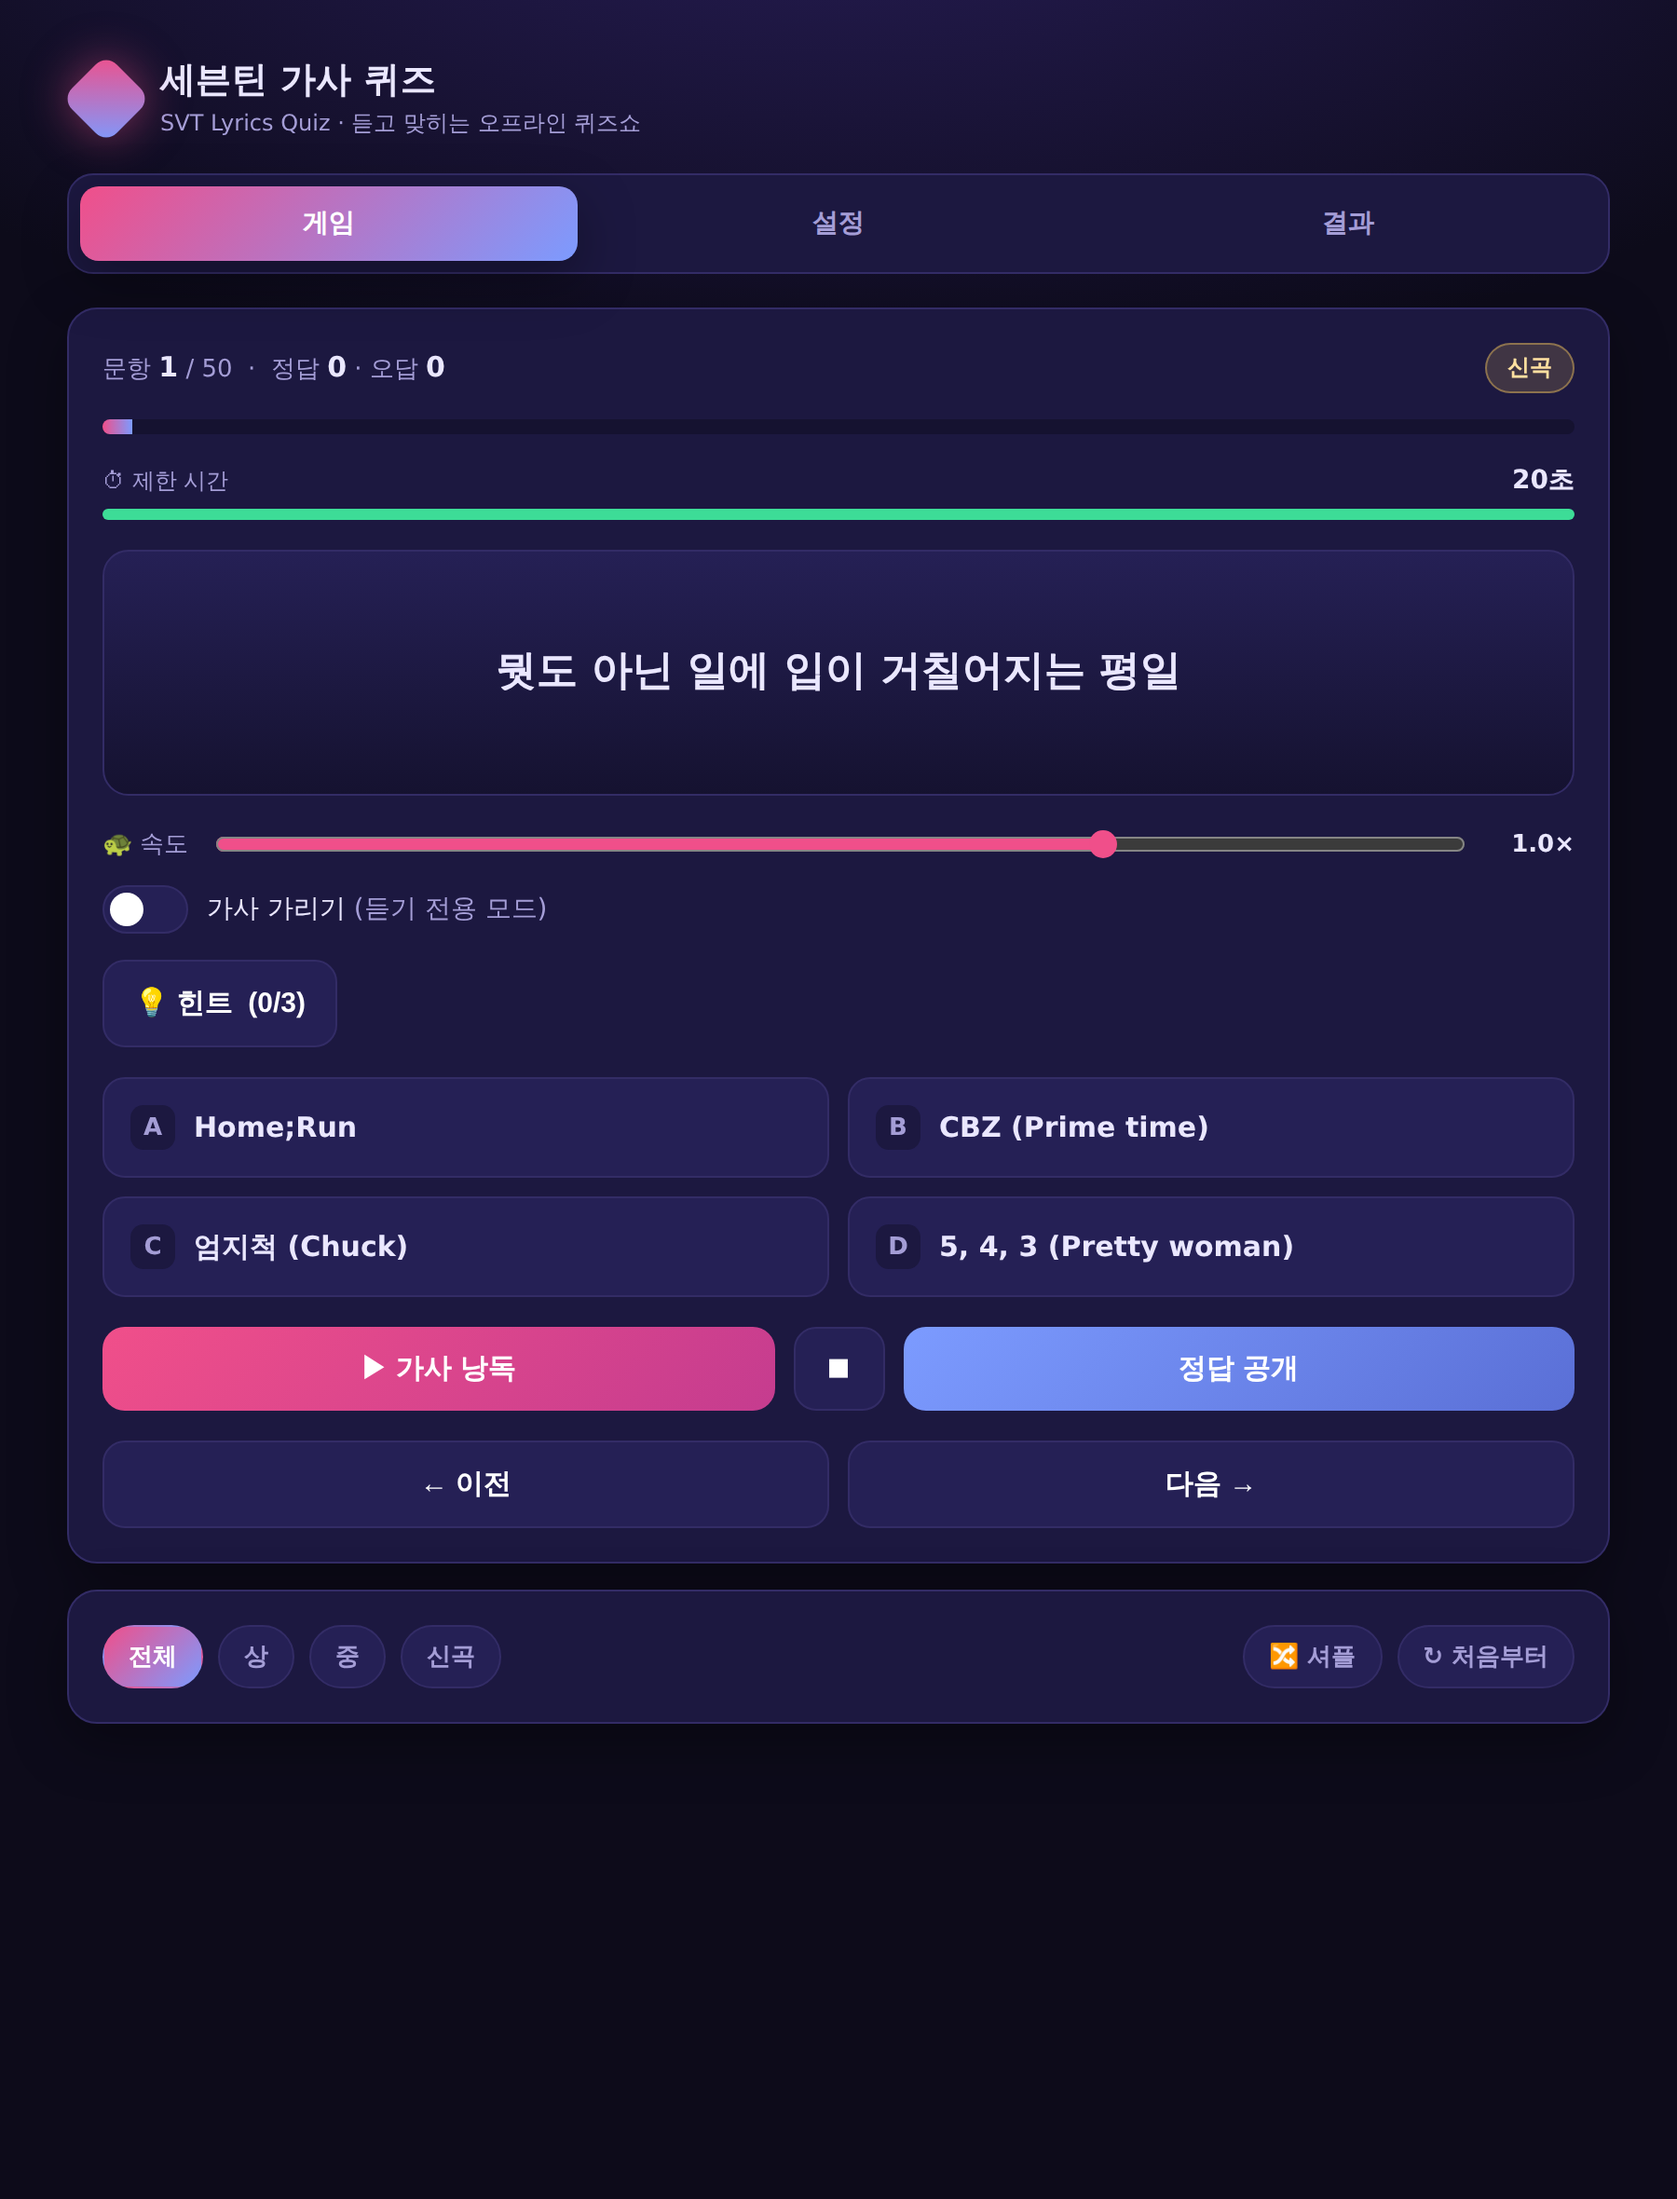
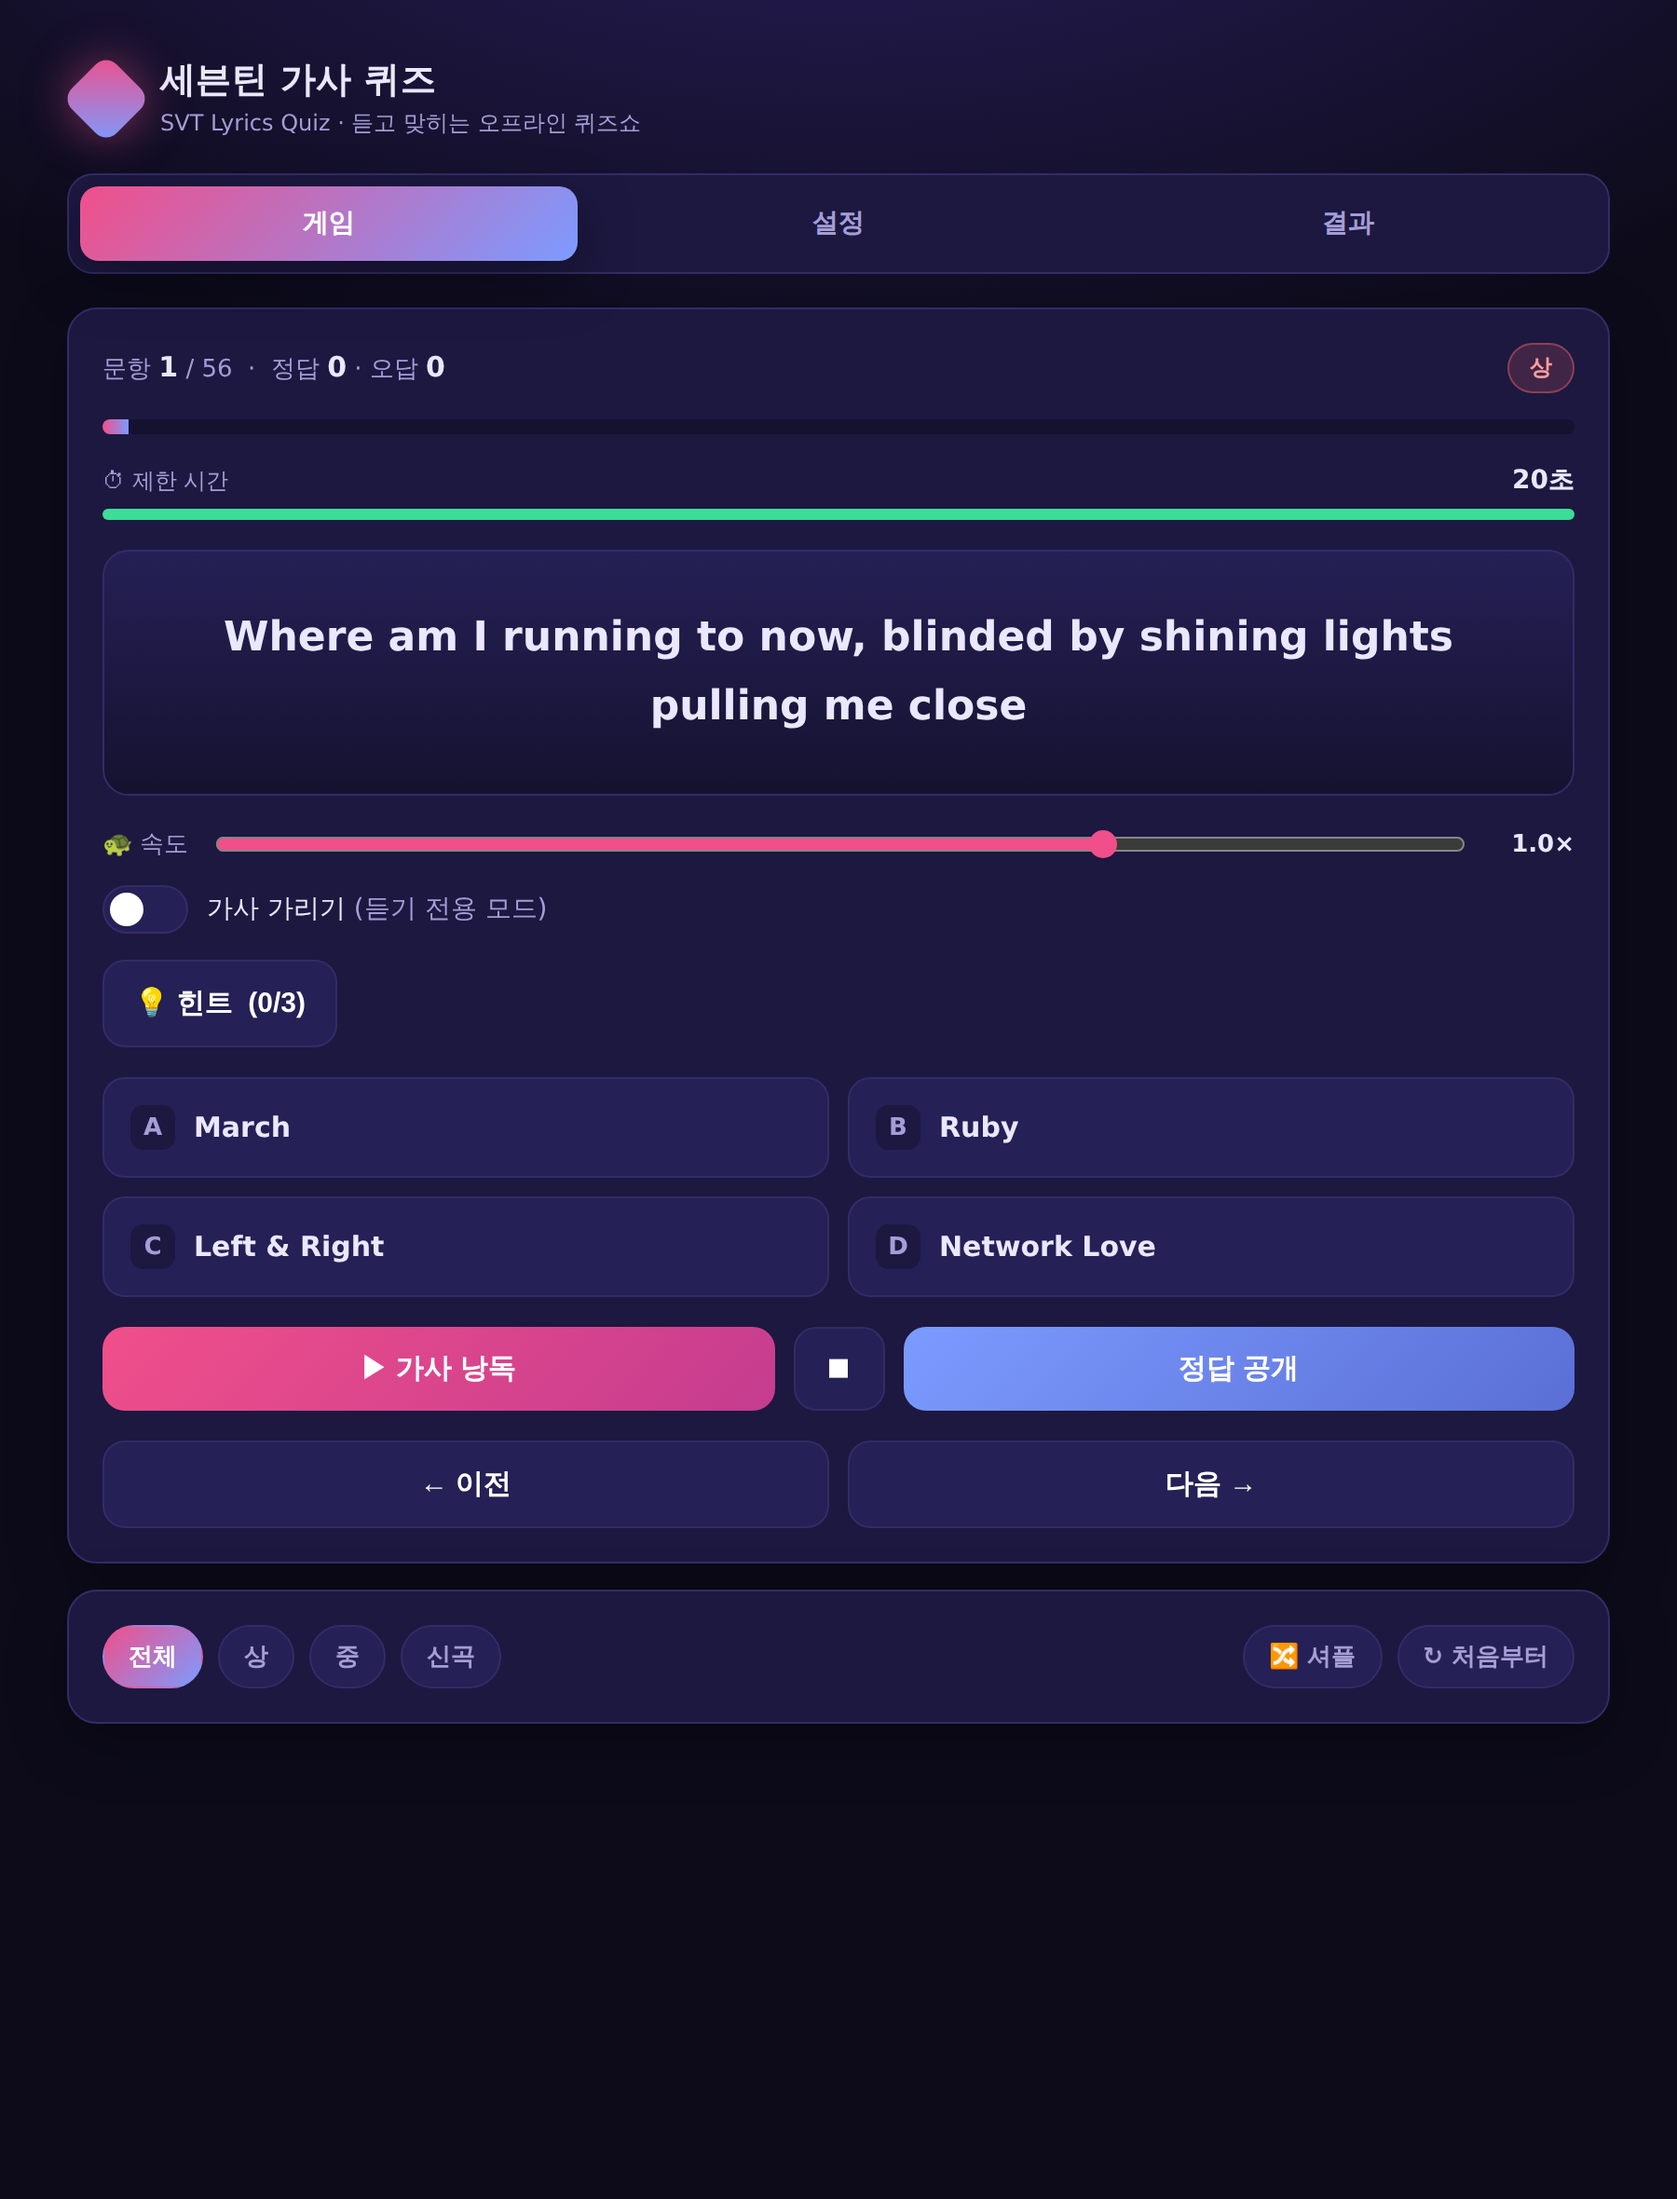
data: 2025~2026 유닛 프로젝트 6곡 추가 (V8·D&S·CxM·HxW) → 총 56문항
웹서치 4중 병렬 조사로 공식 MV/영상이 확인된 유닛곡 추가:
- V8(버논X디에잇) singasong pBpr9TnhhkE / 미아(mia) ltZuC48-PuQ / girlsnboys pGxN5BYWssU
- D&S(도겸X승관) Blue N9X1o0q4aIc (소야곡 타이틀)
- CxM For you Yly-1O7hMUA
- HxW STUPID IDIOT hbZZmSb2I-s

- "원정대"=정한X원우(어젯밤) 팬 조합명으로 확인 → 이미 수록, 추가 없음
- 제외: 8DM(중국어), b사이드 오디오 온리, 팬 리업로드
- 각 곡 제목 미포함 클루(한/영), MV는 HYBE LABELS/SEVENTEEN 공식 채널 검증
- 상 21 / 중 21 / 신곡 14, 신곡 정의 2024~2026 확장
- svt-data.json rev 갱신, README·데이터 스펙·CHANGELOG·스크린샷 갱신
- Playwright 51항목 통과, 콘솔 에러 0

Claude-Session: https://claude.ai/code/session_01BoVUxZZ7QKP6hKgrZ25vGv

diff --git a/index.html b/index.html
@@ -609,6 +609,13 @@ const DEFAULT_SONGS = [
   {id:"s57", name:"Ruby", part:"벌스 · 우지 솔로 (영어)", diff:"상"},
   {id:"s58", name:"Black Eye", part:"벌스 · 버논 솔로 (영어)", diff:"상"},
   {id:"s59", name:"5, 4, 3 (Pretty woman)", part:"1절 벌스 · 쿱스X민규 (영어)", diff:"신곡"},
+  // 2025~2026 유닛 프로젝트 (V8 · D&S · CxM · HxW)
+  {id:"s60", name:"singasong", part:"1절 벌스 · V8 · 버논X디에잇", diff:"신곡"},
+  {id:"s61", name:"미아 (mia)", part:"벌스 · 버논 솔로 · V8", diff:"신곡"},
+  {id:"s62", name:"girlsnboys", part:"벌스 · V8 · 버논X디에잇 (영어)", diff:"신곡"},
+  {id:"s63", name:"Blue", part:"1절 벌스 · 도겸X승관 (D&S)", diff:"신곡"},
+  {id:"s64", name:"For you", part:"벌스 · 쿱스X민규 (영어)", diff:"신곡"},
+  {id:"s65", name:"STUPID IDIOT", part:"벌스 · 호시X우지", diff:"신곡"},
 ];
 
 /* ---- 기본 콘텐츠 ----
@@ -666,6 +673,12 @@ const DEFAULT_CONTENT = {
   s57: {lyrics:"Where am I running to now, blinded by shining lights pulling me close", mv:"https://youtu.be/oV_2853N4n4", time:"0:08"},
   s58: {lyrics:"Running round the whole city for someone to look me in my eyes", mv:"https://youtu.be/vPQasPdd6fI", time:"0:05"},
   s59: {lyrics:"You make me heat up, trip up, act up, what'd you do?", mv:"https://youtu.be/u89aNeJlyg0", time:"0:12"},
+  s60: {lyrics:"Let's kill the sunrise", mv:"https://youtu.be/pBpr9TnhhkE", time:"0:32"},
+  s61: {lyrics:"말을 좀 더 가려야 해", mv:"https://youtu.be/ltZuC48-PuQ", time:"0:20"},
+  s62: {lyrics:"She can't get out of bed when she home", mv:"https://youtu.be/pGxN5BYWssU", time:"0:32"},
+  s63: {lyrics:"하얗게 메마른 너의 그 표정에", mv:"https://youtu.be/N9X1o0q4aIc", time:"0:12"},
+  s64: {lyrics:"You're my favorite homie, never leave me lonely", mv:"https://youtu.be/Yly-1O7hMUA", time:"0:08"},
+  s65: {lyrics:"오늘은 밤새 노세 가득 채우고 건배 건배", mv:"https://youtu.be/hbZZmSb2I-s", time:"0:18"},
 };
 
 const DEFAULT_CONFIG = {
@@ -691,7 +704,9 @@ const ALBUM_INFO = {
   s50:{year:2018,type:"싱글"}, s51:{year:2022,type:"정규"}, s52:{year:2021,type:"디지털 싱글"},
   s53:{year:2021,type:"디지털 싱글"}, s54:{year:2021,type:"디지털 싱글"}, s55:{year:2021,type:"디지털 싱글"},
   s56:{year:2025,type:"싱글"}, s57:{year:2022,type:"디지털 싱글"}, s58:{year:2022,type:"디지털 싱글"},
-  s59:{year:2025,type:"미니"}
+  s59:{year:2025,type:"미니"}, s60:{year:2026,type:"미니"}, s61:{year:2026,type:"미니"},
+  s62:{year:2026,type:"미니"}, s63:{year:2026,type:"미니"}, s64:{year:2025,type:"미니"},
+  s65:{year:2025,type:"싱글"}
 };
 
 /* 4지선다 오답 보기용 세븐틴 곡명 풀 (웹서치로 확보한 실제 곡 · 정답 40곡과 함께 사용) */

diff --git a/README.md b/README.md
@@ -60,7 +60,7 @@
 
 1. 이 저장소의 **`index.html`** 을 내려받아 **Chrome 또는 Edge**로 엽니다.
    (한국어 TTS 음성 엔진 안정성 때문에 Chrome/Edge를 권장합니다.)
-2. **50문항이 기본 내장**되어 있어 바로 플레이할 수 있습니다.
+2. **56문항이 기본 내장**되어 있어 바로 플레이할 수 있습니다.
 3. 사회자 화면을 참가자와 공유(미러링·프로젝터)하고 **가사 가리기**를 켜면 듣기 전용 모드가 됩니다.
 
 > 별도 설치·인터넷 연결이 없어도 게임 로직은 동작합니다. (MV 재생만 인터넷 필요)
@@ -111,7 +111,7 @@ https://alfira0526.github.io/SVT_Lyrics/
 
 ## 📝 문항 구성
 
-- 총 **50문항** (상 21 / 중 21 / 신곡 8) — 전곡 가사·영상 입력, 서브유닛·페어링·솔로곡 대폭 보강
+- 총 **56문항** (상 21 / 중 21 / 신곡 14) — 전곡 가사·영상 입력, 서브유닛·페어링·솔로곡 대폭 보강
 - 초기 앨범 수록곡·유닛곡·솔로곡·최신곡을 두루 포함해 코어 팬을 변별
 - 타이틀곡 후렴을 지양하고 **벌스·랩·브릿지** 위주로 파트를 선정 (곡명이 가사에 나오는 구간은 배제)
 - **▶ 시작하기 → 기본 설정 화면**에서 **문제 수를 골라 랜덤 출제**할 수 있고, **유닛곡 비중 높이기**로 유닛곡을 더 자주 뽑을 수 있습니다
@@ -119,7 +119,7 @@ https://alfira0526.github.io/SVT_Lyrics/
 **난이도 정의**
 - **상** — 벌스·랩·브릿지. 앨범을 반복 청취한 팬만 인지 가능
 - **중** — 1절·세컨 후렴. 곡은 알지만 즉답은 어려운 수준
-- **신곡** — 2024~2025 발매분(정규·유닛). 최신 앨범 소비 여부 측정
+- **신곡** — 2024~2026 발매분(정규·유닛 프로젝트). 최신 앨범 소비 여부 측정
 
 > 전체 곡 목록(곡명·파트·난이도)은 **[데이터 스펙 문서](docs/DATA_SPEC.md)** 에 표로 정리되어 있습니다.
 
@@ -140,7 +140,7 @@ https://alfira0526.github.io/SVT_Lyrics/
 - **💾 배포본 저장(커밋용)** — 현재 편집 상태 그대로를 `svt-data.json`으로 내려받는 버튼(슬롯 저장 없이).
 - **불러오기(파일)** — 내려받은 슬롯/`svt-data.json`을 붙여넣어 복원(기기 간 이동·백업)
 - **일괄 입력** — `1. 가사` 형식 텍스트를 붙여넣어 슬롯에 자동 배분
-- **기본값 복원** — 내장 50문항·설정으로 초기화
+- **기본값 복원** — 내장 56문항·설정으로 초기화
 
 > 게임 옵션(문제 수·타이머·팀전·4지선다)은 **▶ 시작하기 → 기본 설정 화면**에 모여 있고,
 > 설정 탭에는 **곡·가사 편집**과 **저장 슬롯**만 남겨 웹 기반 관리를 단순화했습니다.
@@ -156,8 +156,8 @@ https://alfira0526.github.io/SVT_Lyrics/
 > ℹ `svt-data.json` 로드는 **GitHub Pages 등 http(s) 호스팅**에서 동작합니다.
 > `file://`로 직접 열거나 htmlpreview 링크에서는 파일 내장 기본값이 사용됩니다.
 
-> 🎬 **영상/음원 링크 — 50곡 전곡 등록 완료.** 공식 MV가 있으면 MV를, 없으면 공식 오디오(음원)나 가사 영상을 사용했습니다.
-> 신규 유닛·솔로곡(거침없이·CHEERS·Bittersweet·Spider·나란히·You're My Christmas·동갑내기)은 **공식 MV**로 등록했습니다.
+> 🎬 **영상/음원 링크 — 56곡 전곡 등록 완료.** 공식 MV가 있으면 MV를, 없으면 공식 오디오(음원)나 가사 영상을 사용했습니다.
+> 서브유닛·페어링·솔로곡과 2025~2026 유닛 프로젝트(**V8** 버논X디에잇 · **D&S** 도겸X승관 · **CxM** 쿱스X민규 · **HxW** 호시X우지)는 **공식 MV/영상**으로 등록했습니다.
 > 링크는 삭제·변경될 수 있으니 **리허설 때 재생 확인**을, 필요하면 설정 탭에서 교체를 권장합니다.
 
 데이터 구조와 JSON 스키마는 **[데이터 스펙 문서](docs/DATA_SPEC.md)** 를 참고하세요.

diff --git a/docs/DATA_SPEC.md b/docs/DATA_SPEC.md
@@ -65,7 +65,7 @@
   **저장 시 `svt-data.json`이 자동으로 커밋용 다운로드**되어, 커밋하면 곧바로 배포본에 반영됩니다. 각 슬롯의
   **💾 배포본** 버튼으로 지난 구성도 `rev` 포함 `svt-data.json`으로 받을 수 있습니다.
 - **불러오기(파일)** — 내려받은 슬롯/`svt-data.json`을 붙여넣어 복원(기기 간 이동)
-- **기본값 복원** — 내장 50문항·설정으로 초기화
+- **기본값 복원** — 내장 56문항·설정으로 초기화
 
 ---
 
@@ -85,7 +85,7 @@
 
 ---
 
-## 4. 기본 내장 곡 목록 (50문항)
+## 4. 기본 내장 곡 목록 (56문항)
 
 > 가사 발췌는 저작권을 고려해 문서에는 싣지 않았습니다. 앱 설정 탭에서 확인·편집할 수 있습니다.
 
@@ -139,7 +139,7 @@
 | 20 | 엄지척 (Chuck) | 1절 벌스 |
 | 21 | You're My Christmas | 1절 벌스 · 도겸 솔로 |
 
-### 신곡 (8)
+### 신곡 (14)
 | # | 곡명 | 파트 |
 |---|---|---|
 | 1 | MAESTRO | 1절 벌스 · 2024 |
@@ -150,3 +150,9 @@
 | 6 | 청춘찬가 (Cheers to Youth) | 1절 벌스 · 보컬팀 |
 | 7 | 동갑내기 (96ers) | 1절 벌스 · 호시X우지 |
 | 8 | 5, 4, 3 (Pretty woman) | 1절 벌스 · 쿱스X민규 (영어) |
+| 9 | singasong | 1절 벌스 · V8 (버논X디에잇) |
+| 10 | 미아 (mia) | 벌스 · 버논 솔로 · V8 |
+| 11 | girlsnboys | 벌스 · V8 (영어) |
+| 12 | Blue | 1절 벌스 · 도겸X승관 (D&S) |
+| 13 | For you | 벌스 · 쿱스X민규 (영어) |
+| 14 | STUPID IDIOT | 벌스 · 호시X우지 |

diff --git a/CHANGELOG.md b/CHANGELOG.md
@@ -2,6 +2,15 @@
 
 이 프로젝트의 주요 변경 사항을 기록합니다.
 
+## [1.5.0] — 2025~2026 유닛 프로젝트 6곡 추가 → 총 56문항
+- V8·D&S·CxM·HxW 유닛 앨범에서 공식 MV/영상 보유 곡 6곡 추가(웹서치 4중 병렬 조사):
+  · V8(버논X디에잇) 「singasong」·「미아(mia, 버논 솔로)」·「girlsnboys」
+  · D&S(도겸X승관) 「Blue」(소야곡 타이틀), CxM 「For you」, HxW 「STUPID IDIOT」
+  · 각 곡 제목 미포함 클루 확보(한/영), MV ID는 HYBE LABELS/SEVENTEEN 공식 채널 검증
+- "원정대"는 정한X원우(=「어젯밤」)의 팬 조합명으로 확인 → 이미 수록되어 추가 없음
+- 8DM(중국어)·b사이드 오디오 온리 트랙·팬 리업로드는 제외
+- 상 21 / 중 21 / 신곡 14, 신곡 정의 2024~2026으로 확장, svt-data.json rev 갱신
+
 ## [1.4.0] — 저장 슬롯 커밋 일원화 · 발매곡(영어) 3곡 추가
 - **저장 슬롯 = 바로 커밋 가능** 구조로 변경(관리자 전용):
   · **+ 현재 상태 저장** 시 슬롯 보관과 동시에 `svt-data.json`을 커밋용으로 자동 다운로드
